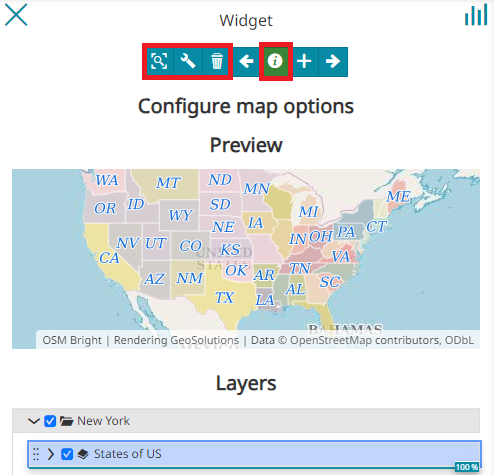
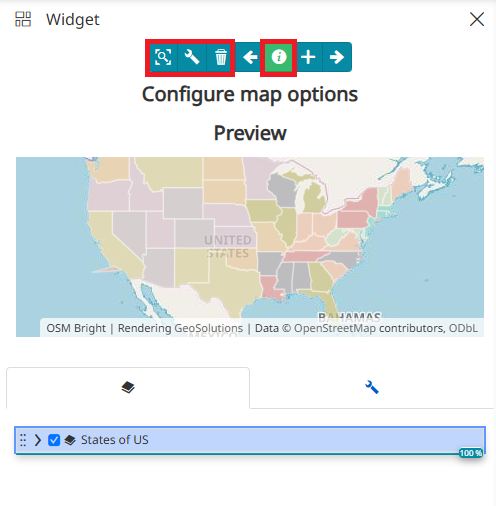
Update User Guide - Improve Maps in Dashboards (#12175)
* update_11793

* add_11730

* Update docs/user-guide/adding-widgets.md

* Update docs/user-guide/adding-widgets.md

* Update docs/user-guide/adding-widgets.md

* Update docs/user-guide/adding-widgets.md

* Update docs/user-guide/adding-widgets.md

* Update docs/user-guide/adding-widgets.md

* Update docs/user-guide/adding-widgets.md

* Update docs/user-guide/adding-widgets.md

* Update docs/user-guide/adding-widgets.md

---------

diff --git a/docs/user-guide/adding-widgets.md b/docs/user-guide/adding-widgets.md
@@ -44,12 +44,16 @@ Here the user can:
 
 * Move forward to the next step through the <img src="../img/button/next.jpg" class="ms-docbutton"/> button
 
-Once a map has been selected, the panel display the layers present in the map in the preview and lists the layer associated with the map.
+Once a map is selected, the panel displays:
+
+* The map preview
+
+* The **Layers** tab with the list of layers present in the map
+
+* The **Settings** tab
 
 !!!note
     If user has selected more than one map, the map wizard displays the *map switcher* dropdown allowing user to select and configure the map.
-
-<img src="../img/adding-widgets/wid-layers-list.jpg" class="ms-docimage"  style="max-width:400px;"/>
 
 !!!note
     If the **Empty Map** has been selected the user can:
@@ -62,7 +66,9 @@ Once a map has been selected, the panel display the layers present in the map in
 
     * Add layers to the map through the <img src="../img/button/+++.jpg" class="ms-docbutton"/> button, as follows: <video controls class="ms-docimage"  style="max-width:400px;"><source src="../img/adding-widgets/wid-add-layer.mp4"> /></video>
 
-On the **Configure map options** panel the user can toggle the layer visibility and set layers transparency, as explained in [Display options](toc.md#display-options-in-panel) section. Furthermore, the user can manage the layer with the new buttons present on the layer toolbar by selecting the layer on the layers list.
+### Layers tab
+
+From the Layers tab the user can toggle the layer visibility and set layers transparency, as explained in [Display options](toc.md#display-options-in-panel) section. Furthermore, the user can manage the layer with the buttons present in the layer toolbar by selecting the layer in the list first.
 
 <img src="../img/adding-widgets/wid-layers-new-buttons.jpg" class="ms-docimage"  style="max-width:400px;"/>
 
@@ -79,6 +85,20 @@ Here, the user is allowed to:
 !!!warning
     The *Floating Identify* tool is active by default (the button is green)
 
+### Settings tab
+
+By switching to the Settings tab, the user can customize the map widget with the following options:
+
+<img src="../img/adding-widgets/settings-tab.jpg" class="ms-docimage"  style="max-width:400px;"/>
+
+* Enable/Disable the **Background Selector** useful to choose from configured backgrounds the desired one for the map
+
+* Enable/Disable the **Legend** for showing the layers legend on map
+
+Below is the final result displayed in the map widget after adding the two options above:
+
+<img src="../img/adding-widgets/settings-tab-sample.jpg" class="ms-docimage"/>
+
 Once the <img src="../img/button/next.jpg" class="ms-docbutton"/> button is clicked, the last step of the process is displayed like the following:
 
 <img src="../img/adding-widgets/map-wid-info.jpg" class="ms-docimage" style="max-width:400px;"/>
@@ -86,6 +106,28 @@ Once the <img src="../img/button/next.jpg" class="ms-docbutton"/> button is clic
 Here the user has the possibility to insert a **Title** and a **Description** for the widget (optional fields) and to complete its creation by clicking on the <img src="../img/button/save-icon.jpg" class="ms-docbutton"/> button. After that, the widget is added to the viewer space:
 
 <img src="../img/adding-widgets/viewer-map.jpg" class="ms-docimage" style="max-width:600px;"/>
+
+### Advanced map editor
+
+From the *Map Widget* menu, the user can access the **Map Editor** by clicking the <img src="../img/button/three-dots-button.jpg" class="ms-docbutton"/> button. This allows for advanced customization of the map's content and appearance using a more advanced viewer.
+
+<img src="../img/adding-widgets/ad-edit-map.jpg" class="ms-docimage"/>
+
+The primary tools available for modifying the map are:
+
+* The **Catalog** to add a new layer, as described in the [Catalog Services](catalog.md#catalog-services).
+
+* The **Annotations** tool to create and manage annotations, as explained in [Adding Annotations](annotations.md#add-new-annotation).
+
+* **Import** and **Export** map context files, as detailed in [Importing and Exporting Files](import.md##export-and-import-map-context-files).
+
+* **Change Background** as explained in the [Background Selector](background.md#background-selector) section.
+
+* Manage layer's [**Attribute Table**](attributes-table.md) and the layer's [Settings](layer-settings.md)
+
+Once the advanced map editing is complete, it is possible click on <img src="../img/button/ok.jpg" class="ms-docbutton"/> button to see the final result in the *Map Widget*.
+
+<img src="../img/adding-widgets/map-backg-inline.jpg" class="ms-docimage"/>
 
 ## Legend widget
 
